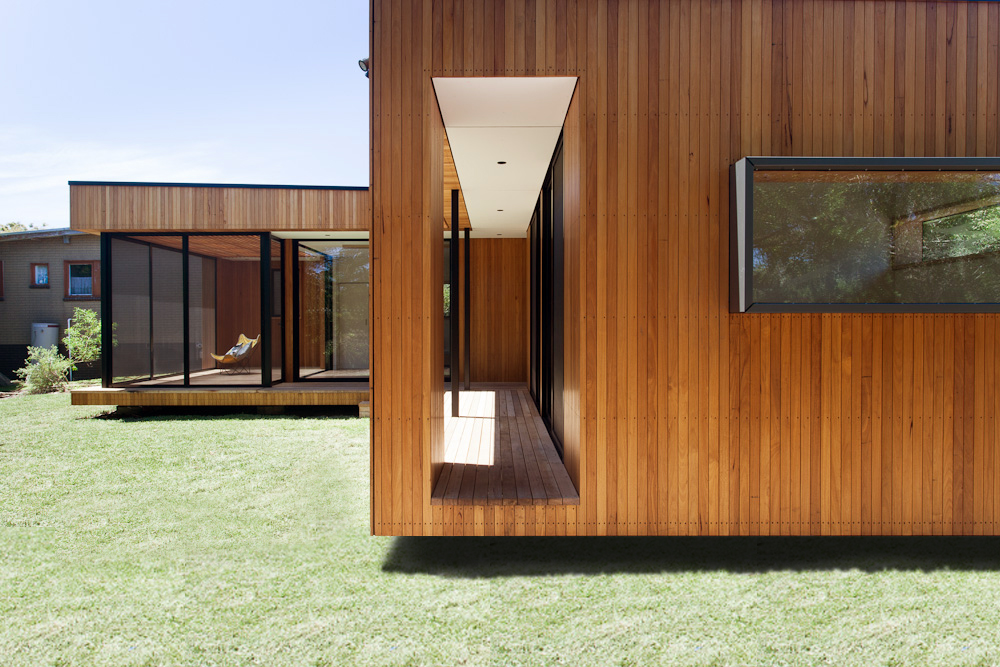
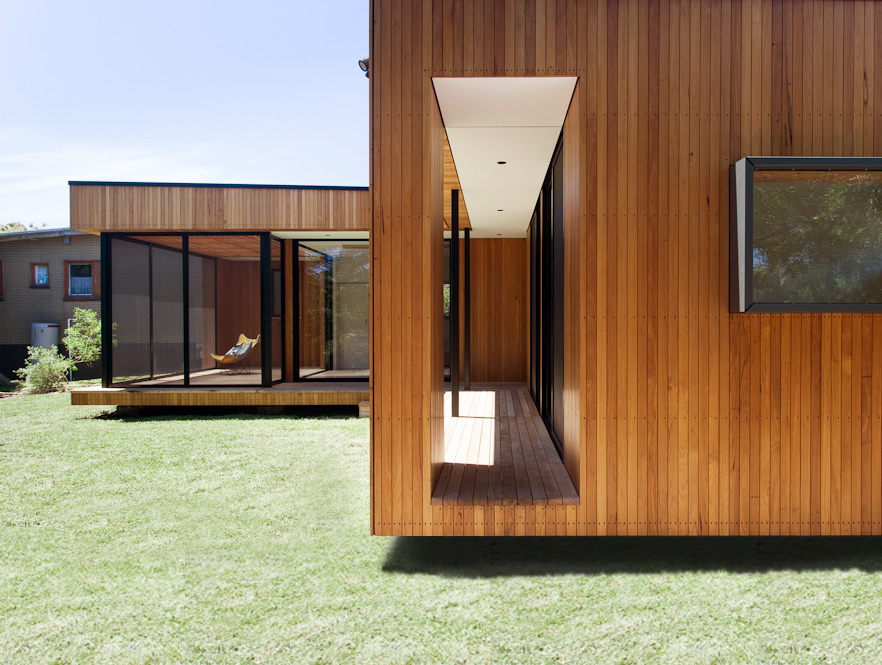
finished products component

diff --git a/constants/products-data.js b/constants/products-data.js
@@ -1,0 +1,36 @@
+export const PRODUCTS_DATA = [
+    {
+        id: 'pr1',
+        yardage: '35m2',
+        name: 'Dom prostokąt',
+        description: 'Churchill to dom modułowy o powierzchni zabudowy 34,91m2. Mimo niewielkich rozmiarów mieści w sobie dwie sypialnie, salon z aneksem kuchennym oraz łazienkę. Jest to idealne rozwiązanie dla zapracowanych, zmęczonych miejskim zgiełkiem osób chcących wypocząć w zaciszu swojego ogródka działkowego. Moduł Churchill ze względu na swój kształt idealnie sprawdzi się w przypadku długich i wąskich działek.',
+        minPrice: 65000,
+        photos: []
+    },
+    {
+        id: 'pr2',
+        yardage: '35m2',
+        name: 'Dom L-ka',
+        description: 'Classico to domek modułowy o powierzchni zabudowy 34,69m2. Mimo niewielkich rozmiarów mieści w sobie dwie sypialnie, salon z aneksem kuchennym oraz łazienkę. Jest to idealne rozwiązanie dla zapracowanych, zmęczonych miejskim zgiełkiem osób chcących wypocząć w zaciszu swojego ogrodu. Marzą Państwo o filiżance ciepłej kawy na kameralnym tarasie o poranku czy zachodzie słońca? Ten domek jest spełnieniem tych marzeń! Nieduże wymiary oraz kształt litery „L” pozwalają na postawienie domku na praktycznie każdej działce. Moduł dostępny w wersji lewej oraz prawej (w odbiciu lustrzanym). ',
+        minPrice: 66000,
+        photos: []
+    },
+    {
+        id: 'pr3',
+        yardage: '70m2',
+        name: 'Dom Z',
+        description: 'Moduł w kształcie litery „Z” to połączenie czterech modułów umożliwiające uzyskanie dowolnego metrażu oraz zagospodarowania budynku jako jednorodzinny lub wielorodzinny obiekt. Poprzez przesunięcia modułów mamy możliwość dopasowania go do działki oraz potrzeb nawet najbardziej wymagających osób.',
+        minPrice: 99999,
+        photos: []
+    },
+    {
+        id: 'pr4',
+        yardage: '+70m2',
+        name: 'Dom niestandardowy',
+        description: 'Jesteśmy w stanie zbudowac dla Ciebie niestandadowy dom. Wybierasz wyposażenie, rozkład i rodzaj, a my zajmujemy się resztą ',
+        minPrice: 100000,
+        photos: []
+
+    },
+
+]

diff --git a/components/Products/ProductsItem/ProductDetails/ProductDetails.module.scss b/components/Products/ProductsItem/ProductDetails/ProductDetails.module.scss
@@ -3,12 +3,11 @@
 .product--details {
   width: 100%;
   height: 100%;
-  flex-basis: 43%;
-  flex-grow: 0;
-  padding-left: 4rem;
+
+  margin-top: 1rem;
 
   h3 {
-    margin-bottom: 3rem;
+    margin-bottom: 1rem;
     font-size: $font-big-header;
     font-weight: 700;
     position: relative;
@@ -29,15 +28,38 @@
     }
   }
   h4 {
-    margin-bottom: 3rem;
+    margin-bottom: 1rem;
     font-size: $font-big-desc;
     color: $color-primary;
   }
   p {
-    margin-bottom: 2rem;
+    margin-bottom: 0.5rem;
   }
 
   .product--details-price {
     font-size: $font-section-header;
+  }
+
+  @include breakpoint(large) {
+    flex-basis: 43%;
+    flex-grow: 0;
+    padding-left: 4rem;
+
+    h3 {
+      margin-bottom: 3rem;
+      font-size: $font-big-header;
+      font-weight: 700;
+      position: relative;
+      width: fit-content;
+    }
+
+    h4 {
+      margin-bottom: 3rem;
+      font-size: $font-big-desc;
+      color: $color-primary;
+    }
+    p {
+      margin-bottom: 2rem;
+    }
   }
 }

diff --git a/components/Products/ProductsItem/ProductPhotos/ProductPhotos.js b/components/Products/ProductsItem/ProductPhotos/ProductPhotos.js
@@ -2,13 +2,13 @@ import Image from 'next/image'
 import React from 'react'
 import classes from './ProductPhotos.module.scss';
 
-import Photo from '../../../../public/images/offer/ikadom-producent-budynkow-modulowych-2021.jpeg';
+import Photo from '../../../../public/images/offer/1.jpeg';
 import ArrowButton from '../../../UI/ArrowButton/ArrowButton';
 
 const ProductPhotos = () => {
     return (
         <div className={classes['product--photos']}>
-            <Image src={Photo} alt='something' layout='fill' />
+            <Image src={Photo} alt='something' layout='fill' placeholder='blur' />
             <ArrowButton direction={'left'} />
             <ArrowButton direction={'right'} />
         </div>

diff --git a/components/Products/ProductsItem/ProductsItem.module.scss b/components/Products/ProductsItem/ProductsItem.module.scss
@@ -1,12 +1,27 @@
+@import "../../../styles/shared";
+
 .products__item {
   display: flex;
   flex-wrap: wrap;
   width: 100%;
-  justify-content: space-between;
+  justify-content: center;
   align-items: center;
   margin-bottom: 8rem;
 
   &:nth-child(odd) {
     flex-direction: row-reverse;
+  }
+
+  @include breakpoint(large) {
+    display: flex;
+    flex-wrap: wrap;
+    width: 90%;
+    justify-content: space-between;
+    align-items: center;
+    margin-bottom: 8rem;
+
+    &:nth-child(odd) {
+      flex-direction: row-reverse;
+    }
   }
 }

diff --git a/components/Products/ProductsItem/ProductPhotos/ProductPhotos.module.scss b/components/Products/ProductsItem/ProductPhotos/ProductPhotos.module.scss
@@ -1,13 +1,9 @@
 @import "../../../../styles/shared";
 
 .product--photos {
-  flex-basis: 52%;
-  flex-grow: 0;
-  height: 35rem;
-  min-width: 500px;
+  height: 25rem;
+  width: 100%;
   object-fit: cover;
-  //   overflow: hidden;
-  //   flex: 2;
   position: relative;
   z-index: 1;
 
@@ -17,8 +13,14 @@
     z-index: -1;
     width: 100%;
     height: 100%;
+    max-width: 60rem;
     background: $gradient-primary;
     right: -4%;
     top: -4%;
+  }
+
+  @include breakpoint(large) {
+    flex-basis: 52%;
+    flex-grow: 0;
   }
 }
